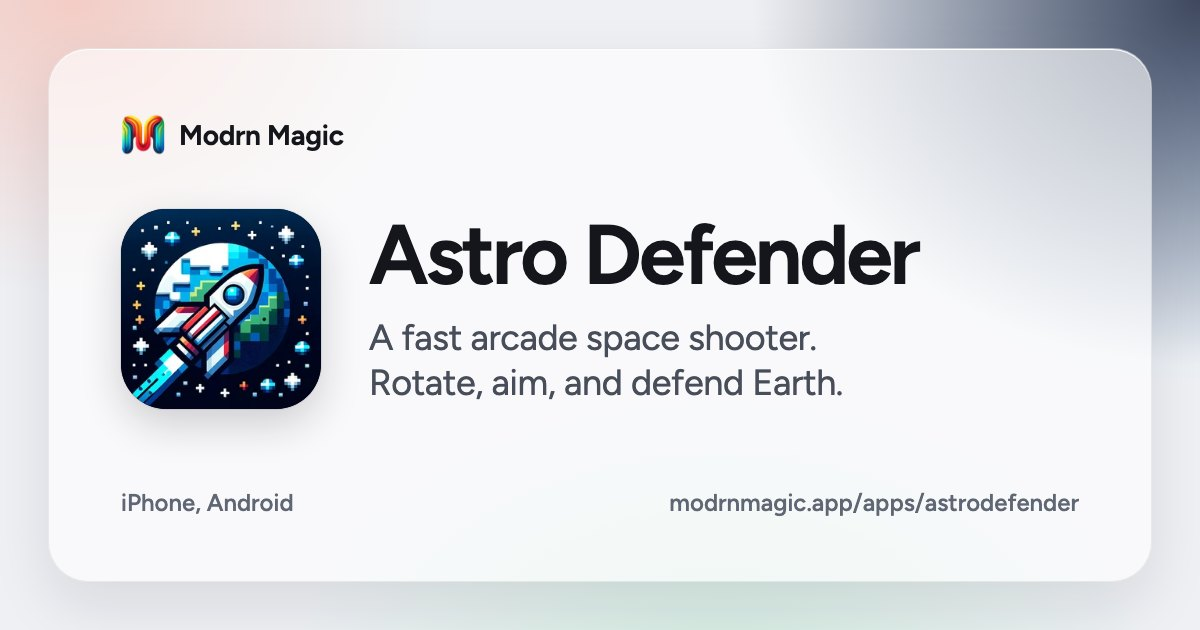
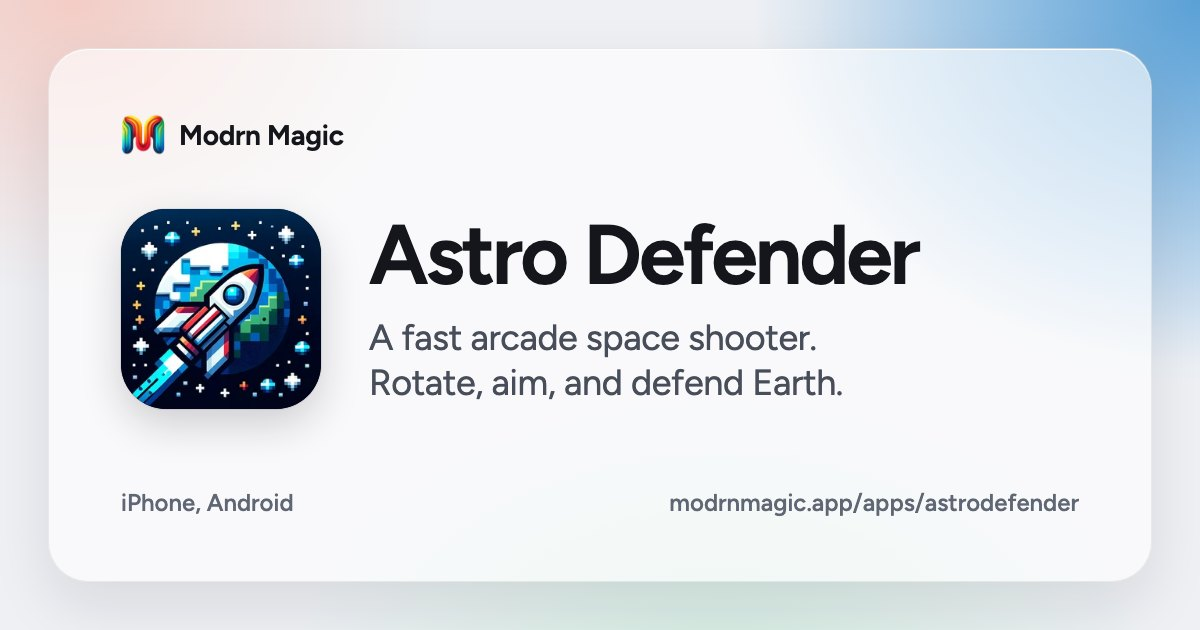
fix(og): share cards use the site's glow rule; regenerate
og.py now draws the corner wash from render.glow(), and skips it when that
returns None, so near-black and near-neutral products get no smudge.

Re-review item 9.

Claude-Session: https://claude.ai/code/session_01QgamrreUt2xbnuAmpDi39c

Changed region(s): [[0.6783, 0.0, 1.0, 0.4825]]

diff --git a/_scripts/og.py b/_scripts/og.py
@@ -17,7 +17,7 @@ import tempfile
 from PIL import Image
 
 sys.path.insert(0, os.path.dirname(os.path.abspath(__file__)))
-from render import listed, load_apps  # noqa: E402  validated data with {name} filled in
+from render import glow, listed, load_apps  # noqa: E402  validated data with {name} filled in, and the site's tint rule
 
 ROOT = os.path.dirname(os.path.dirname(os.path.abspath(__file__)))
 CHROME = os.environ.get("CHROME", "/Applications/Google Chrome.app/Contents/MacOS/Google Chrome")
@@ -91,8 +91,13 @@ h1 span {{ color: #5f6674; }}
         if only and app["id"] not in only:
             continue
         badge = f'<span style="margin-left:16px;font-size:24px;letter-spacing:0;color:#875700;font-weight:650">{status[app["status"]]}</span>' if status[app["status"]] else ""
+        # The same tint rule as the site (render.glow): `tint` wins, and a near-neutral or near-black
+        # color gets no wash, since it would only smudge the corner grey.
+        g = glow(app)
+        wash = (f'.wash::after {{ content: ""; position: absolute; inset: 0; background: radial-gradient(640px 520px at 100% 0%, {g}, transparent 70%); opacity: .7; }}'
+                if g else "")
         markup = f"""<!doctype html><html><head><style>{BASE_CSS}
-.wash::after {{ content: ""; position: absolute; inset: 0; background: radial-gradient(640px 520px at 100% 0%, {app["color"]}, transparent 70%); opacity: .7; }}
+{wash}
 .main {{ display: flex; gap: 48px; align-items: center; margin-top: 52px; }}
 h1 {{ font-size: 84px; line-height: 1; letter-spacing: -.035em; font-weight: 650; display: flex; align-items: baseline; }}
 p {{ font-size: 36px; line-height: 1.25; color: #474d59; margin-top: 18px; max-width: 22ch; letter-spacing: -.01em; }}
